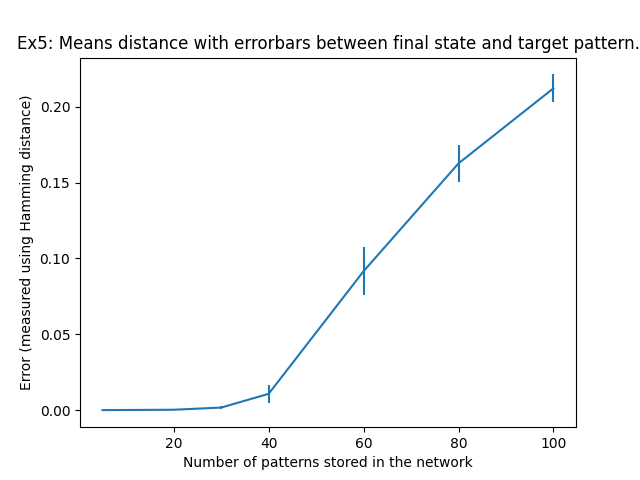
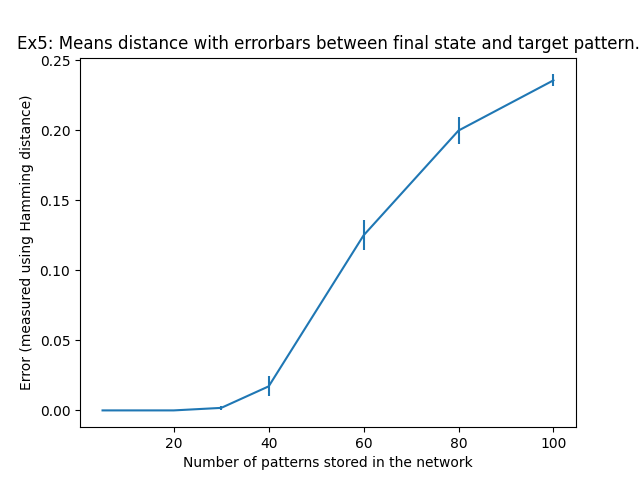
Restructuring the code for ex 4 and 5 for easier reading and use in exercise 7

diff --git a/Part1/run.py b/Part1/run.py
@@ -14,12 +14,52 @@ def generate_and_store_random_patterns(net, n_patterns):
     :return: updated hopfield network, generated random patterns
     """
 
-    pattern_generator = pattern_tools.PatternFactory(300, pattern_width=1)
+    pattern_generator = pattern_tools.PatternFactory(net.nrOfNeurons, pattern_width=1)
     random_patterns = pattern_generator.create_random_pattern_list(n_patterns)
     net.reset_weights()
     net.store_patterns(random_patterns)
 
     return net, random_patterns
+
+
+def compute_distances(net, n_patterns, n_runs, distance_function, percentage=0.15):
+    """
+    Computes the distance between final state and target pattern for each pattern stored in the network.
+    :param net: Hopfield network
+    :param n_patterns: Number of patterns to store in the network
+    :param n_runs: Number of runs to perform to reach the final state
+    :param distance_function: Function used to compute the distance
+    :param percentage: Percentage of flipped neurons in the initial state
+    :return: Computed distances
+    """
+
+    network, random_patterns = generate_and_store_random_patterns(net, n_patterns)
+    distances = np.zeros(n_patterns)
+    n_flips = int(300*percentage)
+    for i, pattern in enumerate(random_patterns):
+        initial_state = pattern_tools.flip_n(pattern, n_flips)
+        network.set_state_from_pattern(initial_state)
+        network.run(n_runs)
+        final_state = network.state
+        distances[i] = distance_function(final_state, np.squeeze(pattern))
+    return distances
+
+
+def compute_m_max(m_vals, distances, tol_distance=0.05, tol_error_percentage=0.05):
+    """
+    Compute the maximum number of patterns that a network can store to reach an error rate of at most 1 - tol_error_percentage
+    :param m_vals: M values for which the distances were computed
+    :param distances: List of distance lists, the order must match the order of m_vals
+    :param tol_distance: Distance tolerance for considering a pattern as correctly retrieved
+    :param tol_error_percentage: Tolerance for the error rate
+    :return: maximum number of patterns that can be stored, percentages of correctly retrieved patterns
+    """
+
+    correctly_retrieved = [distance <= tol_distance for distance in distances]
+    correctly_retrieved_percentage = np.array([np.count_nonzero(item) / len(item) for item in correctly_retrieved])
+    m_max = np.array(m_vals)[correctly_retrieved_percentage > (1 - tol_error_percentage)][-1]
+
+    return m_max, correctly_retrieved_percentage
 
 
 # ----- Exercises code ----- #
@@ -49,7 +89,7 @@ def ex2():
         Shapes of the patterns must match, otherwise an exception is raised.
         :param pattern1: First pattern
         :param pattern2: Second pattern
-        :return:
+        :return: computed distance
         """
 
         assert pattern1.shape == pattern2.shape, "Shapes of the patterns do not match!"
@@ -93,7 +133,7 @@ def ex3(net, stored_patterns, distance_function, selected_pattern_id=None):
     return distances, correctly_retrieved, selected_pattern_id
 
 
-def ex4(net, distance_function, m_vals=(5, 20, 30, 40, 60, 80, 100), n_runs=6, tol=0.05, is_ex4=True):
+def ex4(net, distance_function, m_vals=(5, 20, 30, 40, 60, 80, 100), n_runs=6, tol_distance=0.05, tol_error=0.05):
     """
     Computes for each value of m the mean distance between the final state of the network and the target pattern, and
     plot the results if plot == True.
@@ -112,64 +152,52 @@ def ex4(net, distance_function, m_vals=(5, 20, 30, 40, 60, 80, 100), n_runs=6, t
     :param distance_function: distance function to use
     :param m_vals: List of different values for m
     :param n_runs: Number of runs to reach the state to compare with the target pattern
-    :param tol: Percentage of error tolerance for retrieving patterns correctly
-    :param is_ex4: Whether we are running exercise 4 or not (we are reusing ex4 in ex5, but do not need all computations)
+    :param tol_distance: Max distance considered as correctly classified.
+    :param tol_error: Percentage of error tolerance for retrieving patterns correctly
     :return: mean distances, m max if is_ex4, means otherwise
     """
 
-    def compute_distances(n_patterns):
-        network, random_patterns = generate_and_store_random_patterns(net, n_patterns)
-        distances = np.zeros(n_patterns)
-        n_flips = 15  # 5% of 300
-        for i, pattern in enumerate(random_patterns):
-            initial_state = pattern_tools.flip_n(pattern, n_flips)
-            network.set_state_from_pattern(initial_state)
-            network.run(n_runs)
-            final_state = network.state
-            distances[i] = distance_function(final_state, np.squeeze(pattern))
-        return distances
-
-    distances = [compute_distances(m) for m in m_vals]
+    distances = [compute_distances(net, m, n_runs, distance_function) for m in m_vals]
     means = np.array([np.mean(distance) for distance in distances])
+    m_max, correctly_retrieved_percentage = compute_m_max(m_vals, distances, tol_distance=tol_distance, tol_error_percentage=tol_error)
 
-    if is_ex4:
-        correctly_retrieved = [distance <= 0.05 for distance in distances]
-        correctly_retrieved_percentage = np.array([np.count_nonzero(item) / len(item) for item in correctly_retrieved])
+    plt.plot(m_vals, means)
+    plt.title("Ex4: Means distance between final state and target pattern.")
+    plt.xlabel("Number of patterns stored in the network")
+    plt.ylabel("Error (measured using Hamming distance)")
+    plt.savefig("plots/ex4.png")
+    plt.show()
 
-        plt.plot(m_vals, means)
-        plt.title("Ex4: Means distance between final state and target pattern.")
-        plt.xlabel("Number of patterns stored in the network")
-        plt.ylabel("Error (measured using Hamming distance)")
-        plt.savefig("plots/ex4.png")
-        plt.show()
+    plt.plot(m_vals, correctly_retrieved_percentage)
+    plt.title("Ex4: Percentage of correctly retrieved patterns.")
+    plt.xlabel("Number of patterns stored in the network")
+    plt.ylabel("Percentage of correctly retrieved patterns")
+    plt.savefig("plots/ex4_percentage.png")
+    plt.show()
 
-        plt.plot(m_vals, correctly_retrieved_percentage)
-        plt.title("Ex4: Percentage of correctly retrieved patterns.")
-        plt.xlabel("Number of patterns stored in the network")
-        plt.ylabel("Percentage of correctly retrieved patterns")
-        plt.savefig("plots/ex4_percentage.png")
-        plt.show()
-
-        m_max = np.array(m_vals)[correctly_retrieved_percentage > (1 - tol)][-1]
-        return means, m_max
-
-    else:
-        return means
+    return means, m_max
 
 
-def ex5(net, distance_function, n_trials=8):
+def ex5(net, distance_function, n_trials=8, m_vals=(5, 20, 30, 40, 60, 80, 100), n_runs=6):
     """
     Repeats experiment of ex4 several times to obtain error bars on the means, and plots the results.
     :param net: hopfield network
     :param distance_function: function used to compute the distance
     :param n_trials: number of times the experiment should be repeated to get the error bars.
+    :param m_vals: List of different values for m
+    :param n_runs: Number of runs to reach the state to compare with the target pattern
     :return: mean of means, std of means
     """
 
-    m_vals = (5, 20, 30, 40, 60, 80, 100)
-    means = np.stack([ex4(net, distance_function, m_vals=m_vals, isex4=False) for _ in range(n_trials)])
-    mean_of_means = np.mean(means, axis=0)
-    std_of_means = np.std(means, axis=0)
+    all_means = []
+    for _ in range(n_trials):
+        distances = [compute_distances(net, m, n_runs, distance_function) for m in m_vals]
+        means = np.array([np.mean(distance) for distance in distances])
+        all_means.append(means)
+
+    all_means = np.stack(all_means)
+    mean_of_means = np.mean(all_means, axis=0)
+    std_of_means = np.std(all_means, axis=0)
 
     plt.errorbar(m_vals, mean_of_means, yerr=std_of_means)
     plt.title("Ex5: Means distance with errorbars between final state and target pattern.")
@@ -181,14 +209,19 @@ def ex5(net, distance_function, n_trials=8):
     return mean_of_means, std_of_means
 
 
-def ex7():
+def ex7(net_sizes=(50, 250, 500, 750, 1000), n_patterns_list=()):
     """"""
+
+    for size in net_sizes:
+        net = network.HopfieldNetwork(size)
+
+        #net, random_patterns = generate_and_store_random_patterns(net, n_patterns)
 
     # For each network size between 50 and 1000:
     #   - create a network of this size
-    #   - for 4 different sizes:
-    #       - ...
-    #   - Compute the capacity
+    #   - Use 4 different dictionary sizes
+    #   - Compute m_max and the capacity of the network using this information
+    #   - see instructions for second half
 
     # Note from TA: function of network size
 
@@ -200,5 +233,6 @@ if __name__ == "__main__":
     compute_hamming_distance = ex2()  # TODO: answer theory question of ex2
     distances, correctly_retrieved, selected_pattern_id = ex3(net, stored_patterns, compute_hamming_distance)
     means, m_max = ex4(net, compute_hamming_distance)  # TODO: answer theory question of ex4
+    print(means, m_max)
     mean_of_means, std_of_means = ex5(net, compute_hamming_distance)
-
+    print(mean_of_means, std_of_means)
